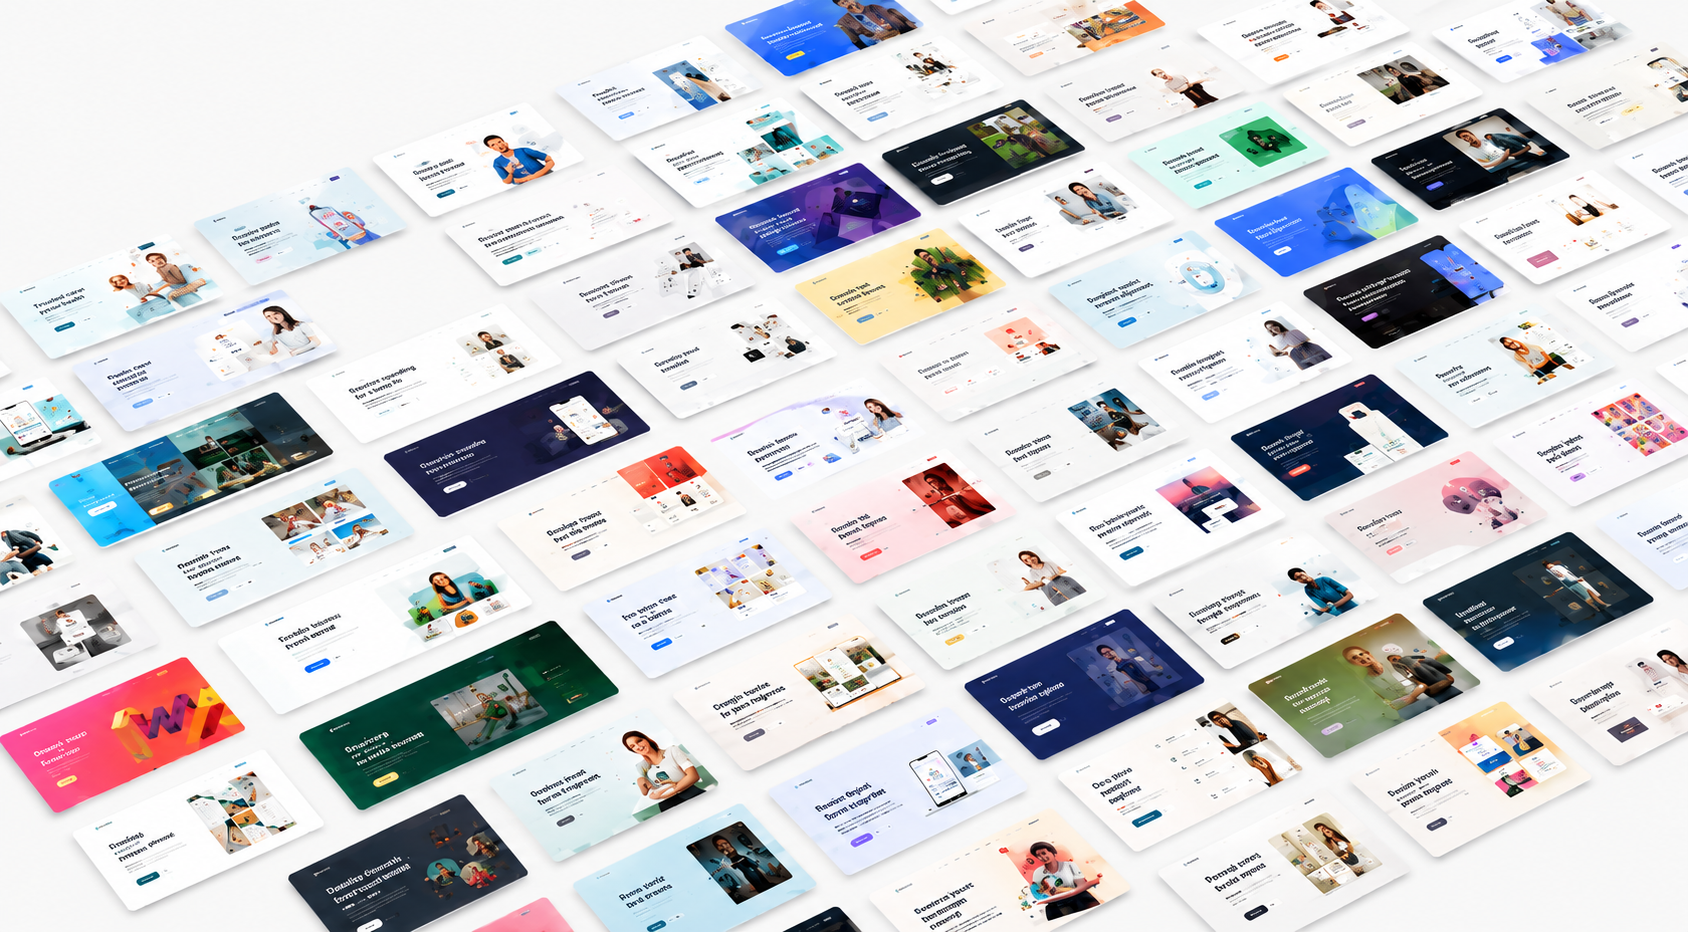
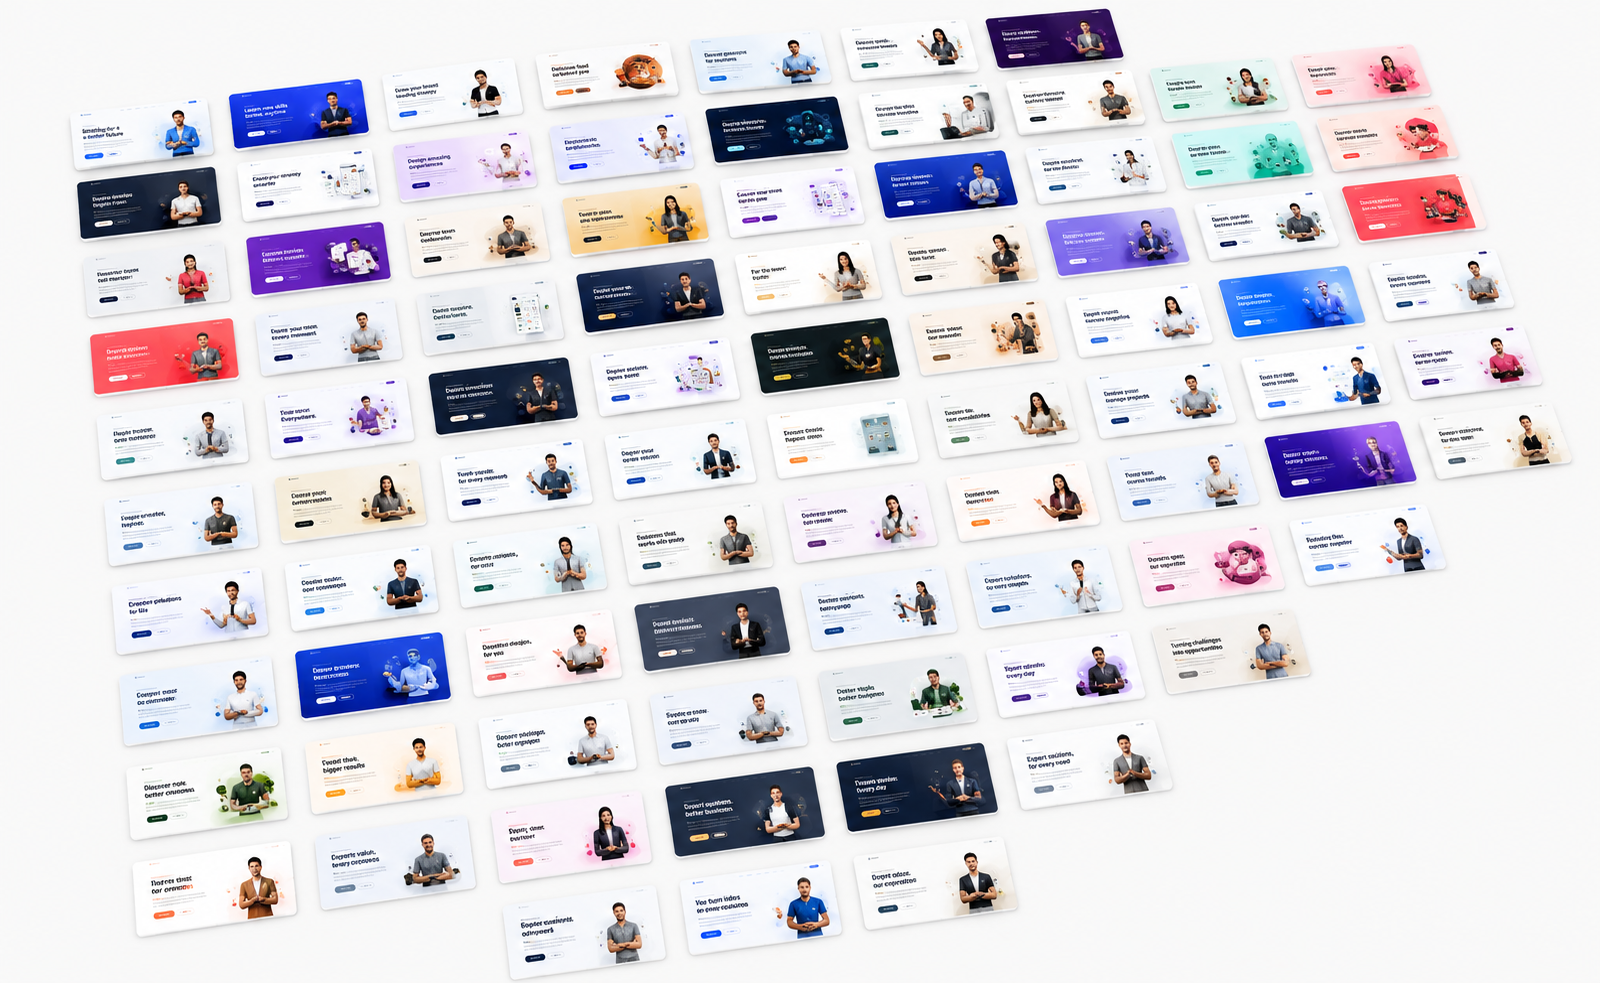
Update hero image — multiply blend, no frame, 100% background match

diff --git a/app/page.tsx b/app/page.tsx
@@ -203,15 +203,17 @@ export default function Home() {
               </div>
             </div>
             {/* Hero image — hidden on mobile */}
-            <div className="hero-demo">
+            <div className="hero-demo" style={{ overflow: "visible" }}>
               <img
                 src="/hero.png"
                 alt="insixlive — AI website generation"
                 style={{
-                  width: "110%",
-                  marginLeft: "-5%",
+                  width: "120%",
+                  marginLeft: "-10%",
+                  marginTop: "-4%",
                   display: "block",
                   mixBlendMode: "multiply" as const,
+                  pointerEvents: "none",
                 }}
               />
             </div>